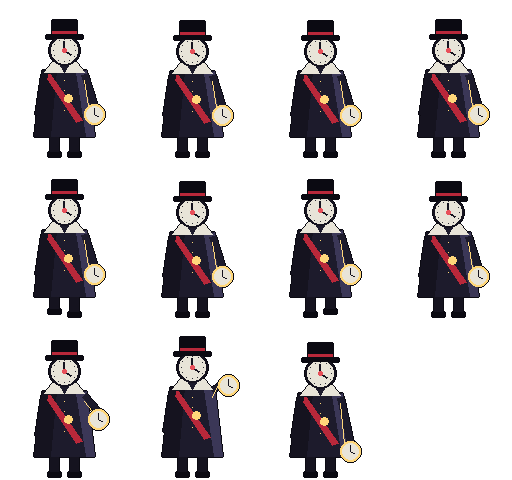
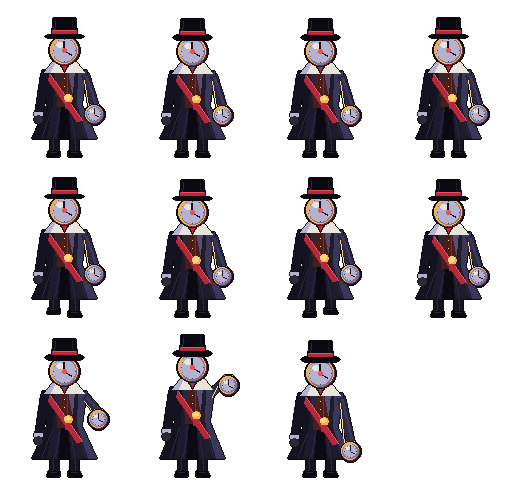
Act 3 art: shaded brass clock dials, a tailored Mayor; enemies keep personal space; stale glow layers removed on rebuild; shoot.sh stages each shot in its zone
Claude-Session: https://claude.ai/code/session_01YABBJVPWvaqtn34m5VQVCp

diff --git a/art/enemies.py b/art/enemies.py
@@ -5,7 +5,7 @@ from __future__ import annotations
 
 import math
 
-from pix import Spr
+from pix import Spr, clock_dial
 
 POSES = {"idle": 4, "move": 4, "attack": 3}
 
@@ -494,42 +494,79 @@ def mayor(pose: str, i: int) -> Spr:
     bob = pick({"idle": (0, 1, 1, 0), "move": (0, 2, 0, 2), "attack": (1, -3, 3)}, pose, i)
     step = pick({"idle": 0, "move": (-1, 0, 1, 0), "attack": 0}, pose, i)
     cx, top = 64, 40 + bob
+    _mayor_legs(s, cx, step)
+    _mayor_coat(s, cx, top)
+    arm = (cx + 30, top + 66) if pose != "attack" else ((cx + 34, top + 50), (cx + 36, top + 20), (cx + 30, top + 80))[i]
+    _mayor_arms(s, cx, top, arm)
+    _mayor_head(s, cx, top)
+    s.outline()
+    s.recolor_edge(-1, 0, "violet", only={"night", "ink", "dusk1"})
+    s.recolor_edge(1, 0, "gold", only={"night", "dusk2", "dusk1"})
+    return s
+
+
+def _mayor_legs(s: Spr, cx: int, step: float) -> None:
+    """Pinstriped trousers tapering into polished boots; the stepping boot lifts."""
     for side in (-1, 1):
         lift = 3 if step == side else 0
-        s.rect(cx + side * 10 - 4, 130, cx + side * 10 + 4, 154 - lift, "ink")
-        s.rect(cx + side * 10 - 6, 152 - lift, cx + side * 10 + 6, 156 - lift, "void")
-    s.poly([(cx - 22, top + 30), (cx + 22, top + 30), (cx + 30, 136), (cx - 30, 136)], "night")
-    s.poly([(cx - 22, top + 30), (cx - 8, top + 30), (cx - 14, 136), (cx - 30, 136)], "ink")
-    s.poly([(cx + 12, top + 32), (cx + 22, top + 30), (cx + 30, 136), (cx + 22, 136)], "dusk2")
-    s.poly([(cx - 20, top + 34), (cx - 14, top + 34), (cx + 18, top + 80), (cx + 12, top + 82)], "blood")    # the mayoral sash
-    s.ellipse(cx + 4, top + 58, 4, 4, "gold")
+        x = cx + side * 10
+        s.poly([(x - 5, 128), (x + 5, 128), (x + 4, 152 - lift), (x - 4, 152 - lift)], "ink")
+        s.line([(x + side, 130), (x + side, 150 - lift)], "dusk1")
+        s.poly([(x - 6, 151 - lift), (x + 5, 151 - lift), (x + 7 * side if side > 0 else x + 5, 156 - lift),
+                (x - 7 if side < 0 else x - 6, 156 - lift)], "void")
+        s.line([(x - 3, 152 - lift), (x + 2, 152 - lift)], "stone_dk")
+
+
+def _mayor_coat(s: Spr, cx: int, top: int) -> None:
+    """Frock coat: fitted at the waist, tails flaring and split, a rust waistcoat, lapels, sash and medal."""
+    hem = 138
+    s.poly([(cx - 22, top + 30), (cx + 22, top + 30), (cx + 17, top + 64), (cx + 32, hem), (cx - 32, hem), (cx - 17, top + 64)], "night")
+    s.poly([(cx - 22, top + 30), (cx - 10, top + 30), (cx - 12, top + 64), (cx - 18, hem), (cx - 32, hem), (cx - 17, top + 64)], "ink")
+    s.poly([(cx + 14, top + 32), (cx + 22, top + 30), (cx + 17, top + 64), (cx + 32, hem), (cx + 24, hem), (cx + 13, top + 64)], "dusk2")
+    s.poly([(cx - 3, top + 66), (cx + 3, top + 66), (cx + 6, hem), (cx - 6, hem)], "void")            # the split between the tails
+    for fx in (-22, -9, 10, 21):
+        s.line([(cx + fx * 0.6, top + 70), (cx + fx, hem - 2)], "dusk1")                          # folds
+    s.poly([(cx - 9, top + 30), (cx + 9, top + 30), (cx + 7, top + 66), (cx - 7, top + 66)], "ember_dk")  # waistcoat
+    s.line([(cx + 3, top + 32), (cx + 3, top + 64)], "rust")
     for k in range(4):
-        s.px(cx, top + 40 + k * 10, "gold")
-    arm = (cx + 30, top + 66) if pose != "attack" else ((cx + 34, top + 50), (cx + 36, top + 20), (cx + 30, top + 80))[i]
-    s.line([(cx + 20, top + 34), arm], "night", width=7)
-    s.line([(cx - 20, top + 34), (cx - 26, top + 74)], "ink", width=7)
-    s.ellipse(arm[0], arm[1] + 8, 10, 10, "gold")                                # the great pocket watch
-    s.ellipse(arm[0], arm[1] + 8, 8, 8, "bone", glow=True)
-    s.line([(arm[0], arm[1] + 8), (arm[0], arm[1] + 2)], "ink")
-    s.line([(arm[0], arm[1] + 8), (arm[0] + 4, arm[1] + 10)], "ink")
+        s.px(cx, top + 38 + k * 8, "gold")
+    s.poly([(cx - 10, top + 30), (cx - 4, top + 30), (cx - 8, top + 52)], "dusk1")                  # lapels
+    s.poly([(cx + 4, top + 30), (cx + 10, top + 30), (cx + 8, top + 52)], "dusk3")
+    s.poly([(cx - 20, top + 34), (cx - 14, top + 34), (cx + 18, top + 80), (cx + 12, top + 82)], "blood")    # the mayoral sash
+    s.line([(cx - 14, top + 34), (cx + 18, top + 80)], "rose")
+    s.line([(cx - 20, top + 35), (cx + 12, top + 82)], "ember_dk")
+    s.ellipse(cx + 4, top + 58, 4, 4, "amber")
+    s.ellipse(cx + 3, top + 57, 2.5, 2.5, "gold")
+    s.poly([(cx + 2, top + 62), (cx + 6, top + 62), (cx + 7, top + 68), (cx + 4, top + 66), (cx + 1, top + 68)], "blood")  # ribbon
+
+
+def _mayor_arms(s: Spr, cx: int, top: int, arm: tuple[int, int]) -> None:
+    """Sleeves with white cuffs and dark gloves; the right hand holds out the great pocket watch on its chain."""
+    s.line([(cx + 20, top + 34), arm], "dusk1", width=8)
+    s.line([(cx + 22, top + 36), (arm[0] + 2, arm[1])], "dusk2", width=3)
+    s.line([(cx - 20, top + 34), (cx - 26, top + 74)], "ink", width=8)
+    s.rect(cx - 30, top + 72, cx - 22, top + 75, "pale")
+    s.ellipse(cx - 26, top + 79, 4, 4, "stone_dk")
+    s.rect(arm[0] - 4, arm[1] - 2, arm[0] + 4, arm[1] + 1, "pale")
     s.line([(arm[0] - 6, arm[1]), (cx + 20, top + 40)], "gold")                 # chain
+    clock_dial(s, arm[0], arm[1] + 8, 9)                                         # the great pocket watch
+    s.px(arm[0], arm[1] + 8, "rose", glow=True)
+
+
+def _mayor_head(s: Spr, cx: int, top: int) -> None:
+    """High starched collar, a clock face for a head, and a tall hat with a blood-red band."""
     s.poly([(cx - 12, top + 22), (cx + 12, top + 22), (cx + 20, top + 32), (cx - 20, top + 32)], "bone")  # high collar
+    s.poly([(cx - 20, top + 32), (cx - 12, top + 22), (cx - 9, top + 22), (cx - 14, top + 32)], "pale")
     s.poly([(cx - 6, top + 22), (cx + 6, top + 22), (cx, top + 32)], "night")
-    s.ellipse(cx, top + 10, 15, 15, "ink")                                      # clock-face head
-    s.ellipse(cx, top + 10, 13, 13, "bone")
-    import math as _m
-    for a in range(12):
-        s.px(cx + _m.cos(a * 0.5236) * 11, top + 10 + _m.sin(a * 0.5236) * 11, "stone_dk")
-    s.line([(cx, top + 10), (cx, top + 1)], "ink", width=2)
-    s.line([(cx, top + 10), (cx + 6, top + 14)], "ink", width=2)
+    s.poly([(cx - 3, top + 24), (cx + 3, top + 24), (cx, top + 30)], "blood")   # cravat
+    clock_dial(s, cx, top + 10, 14)                                             # clock-face head
     s.ellipse(cx, top + 10, 2, 2, "rose", glow=True)
-    s.rect(cx - 12, top - 20, cx + 12, top - 4, "void")                         # top hat
-    s.rect(cx - 18, top - 5, cx + 18, top - 2, "void")
-    s.rect(cx - 12, top - 9, cx + 12, top - 7, "blood")
-    s.outline()
-    s.recolor_edge(-1, 0, "violet", only={"night", "ink"})
-    s.recolor_edge(1, 0, "gold", only={"night", "dusk2"})
-    return s
+    s.poly([(cx - 11, top - 22), (cx + 11, top - 22), (cx + 12, top - 4), (cx - 12, top - 4)], "void")  # top hat
+    s.line([(cx - 9, top - 20), (cx - 10, top - 6)], "stone_dk")
+    s.line([(cx + 8, top - 20), (cx + 9, top - 6)], "night")
+    s.ellipse(cx, top - 4, 19, 2.5, "void")
+    s.rect(cx - 12, top - 10, cx + 12, top - 7, "blood")
+    s.line([(cx - 11, top - 10), (cx + 11, top - 10)], "rose")
 
 
 KINDS = {"gloam": (gloam, 48, 48), "hound": (hound, 64, 48), "moth": (moth, 64, 56), "glazier": (glazier, 128, 128), "husk": (husk, 64, 64),

diff --git a/art/people.py b/art/people.py
@@ -3,7 +3,7 @@ lighting (cool rim on the left, warm lantern rim on the right) and outline, but 
 coats, held props and accent colours. A spec is a dict (see SPECS); frames are drawn per pose."""
 from __future__ import annotations
 
-from pix import Spr
+from pix import Spr, clock_dial
 
 FEET = 61
 CX = 32
@@ -178,7 +178,8 @@ def _held(s: Spr, f: Fig, item: str, hand: tuple[float, float]) -> None:
     elif item == "watch":
         s.line([(x - 6, y - 8), (x, y)], "gold")
         s.ellipse(x, y + 2, 3, 3, "gold")
-        s.ellipse(x, y + 2, 2, 2, "bone", glow=True)
+        s.ellipse(x, y + 2, 2, 2, "pale")
+        s.px(x, y + 2, "rose", glow=True)
     elif item == "oar":
         s.line([(x - 2, y + 14), (x + 2, y - 30)], "earth_lt", width=2)
         s.poly([(x - 4, y + 12), (x + 1, y + 12), (x, y + 22), (x - 5, y + 22)], "earth")
@@ -256,13 +257,7 @@ def _head(s: Spr, f: Fig) -> None:
             s.ellipse(CX + dx, hy + dy, 2.5, 2.5, hat[1])
         s.px(CX - 1, hy - 7, hat[2])
     elif style == "clock":                  # a clock face where the head should be, stopped at four
-        s.ellipse(CX, hy - 1, 7, 7, "ink")
-        s.ellipse(CX, hy - 1, 6, 6, "bone")
-        for a in range(12):
-            import math as _m
-            s.px(CX + _m.cos(a * 0.5236) * 5, hy - 1 + _m.sin(a * 0.5236) * 5, "stone")
-        s.line([(CX, hy - 1), (CX, hy - 5)], "ink")
-        s.line([(CX, hy - 1), (CX + 3, hy + 1)], "ink")
+        clock_dial(s, CX, hy - 1, 7)
         s.px(CX, hy - 1, "rose", glow=True)
     elif style == "shadow":
         s.ellipse(CX, hy - 1, 6, 7, "void")

diff --git a/art/pix.py b/art/pix.py
@@ -125,3 +125,19 @@ def sheet(frames: list[list[Spr]], fw: int, fh: int) -> tuple[Image.Image, Image
 def arc_points(cx: float, cy: float, r: float, a0: float, a1: float, n: int) -> list[Point]:
     return [(cx + math.cos(a0 + (a1 - a0) * i / (n - 1)) * r, cy + math.sin(a0 + (a1 - a0) * i / (n - 1)) * r)
             for i in range(n)]
+
+
+def clock_dial(s: Spr, cx: float, cy: float, r: float, hand: float = 0.6) -> None:
+    """A shaded clock face stopped at four: brass bezel, cool face with a shadowed lower-right, ticks and hands.
+    Shared by every clock in Act 3 (street clocks, the Clockfaces' heads, the Mayor) so they read as one family."""
+    s.ellipse(cx, cy, r + 1, r + 1, "ink")
+    s.ellipse(cx, cy, r, r, "rust")
+    s.ellipse(cx - 0.5, cy - 0.5, r - 0.5, r - 0.5, "amber")
+    s.ellipse(cx, cy, r - 1.5, r - 1.5, "mist")                    # shadowed face
+    s.ellipse(cx - 0.6, cy - 0.6, r - 2.2, r - 2.2, "pale")        # lit face
+    s.ellipse(cx - r * 0.35, cy - r * 0.4, r * 0.25, r * 0.2, "bone")
+    for a in range(12):
+        tick = "dusk2" if a % 3 == 0 else "stone_lt"
+        s.px(cx + math.cos(a * math.pi / 6) * (r - 3), cy + math.sin(a * math.pi / 6) * (r - 3), tick)
+    s.line([(cx, cy), (cx, cy - (r - 3) * 0.85)], "ink", width=2 if r >= 10 else 1)
+    s.line([(cx, cy), (cx + (r - 3) * hand, cy + (r - 3) * hand * 0.55)], "ink", width=2 if r >= 10 else 1)

diff --git a/art/build_art.py b/art/build_art.py
@@ -26,8 +26,12 @@ def _save(img: Image.Image, glow: Image.Image | None, rel: str) -> None:
     path = GAME / "art" / rel
     path.parent.mkdir(parents=True, exist_ok=True)
     img.save(path)
+    glow_path = path.with_name(path.stem + "_glow.png")
     if glow is not None and glow.getbbox() is not None:
-        glow.save(path.with_name(path.stem + "_glow.png"))
+        glow.save(glow_path)
+    else:
+        glow_path.unlink(missing_ok=True)                    # a sprite that stopped glowing must not keep its old layer
+        Path(str(glow_path) + ".import").unlink(missing_ok=True)
 
 
 def build_people(meta: dict) -> None:

diff --git a/art/props_act1.py b/art/props_act1.py
@@ -5,7 +5,7 @@ from __future__ import annotations
 import math
 import random
 
-from pix import Spr, dither_fill
+from pix import Spr, clock_dial, dither_fill
 from props import _finish, _prism
 
 
@@ -254,10 +254,7 @@ def clock_post() -> Spr:
     s = Spr(28, 80)
     s.rect(12, 26, 15, 78, "stone_dk")
     s.rect(7, 74, 20, 78, "stone")
-    s.ellipse(14, 16, 11, 11, "ink")
-    s.ellipse(14, 16, 9, 9, "bone")
-    s.line([(14, 16), (14, 9)], "ink")
-    s.line([(14, 16), (19, 19)], "ink")
+    clock_dial(s, 14, 16, 10)
     s.rect(4, 4, 24, 6, "stone_dk")
     return _finish(s, "pale", {"stone_dk"})
 
